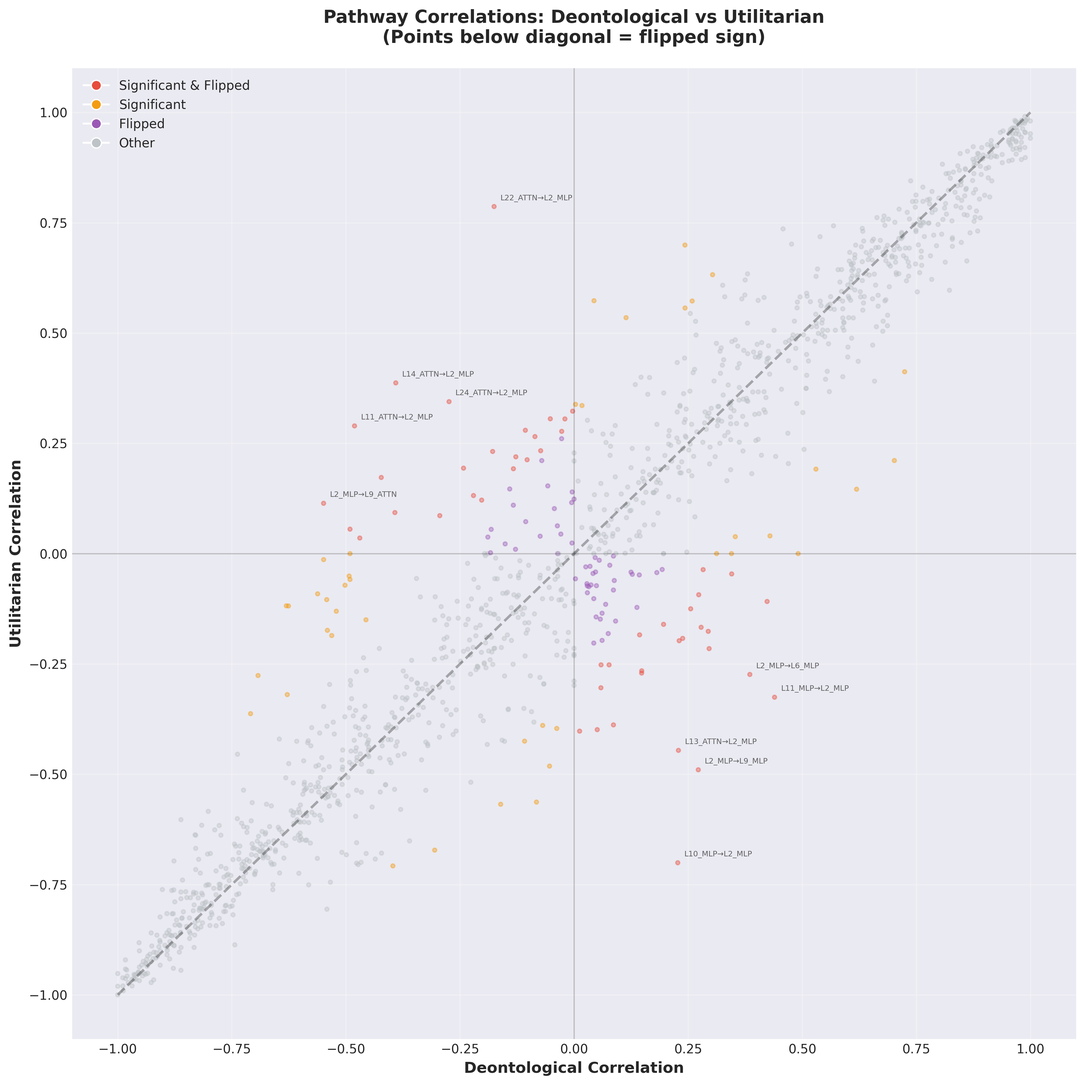
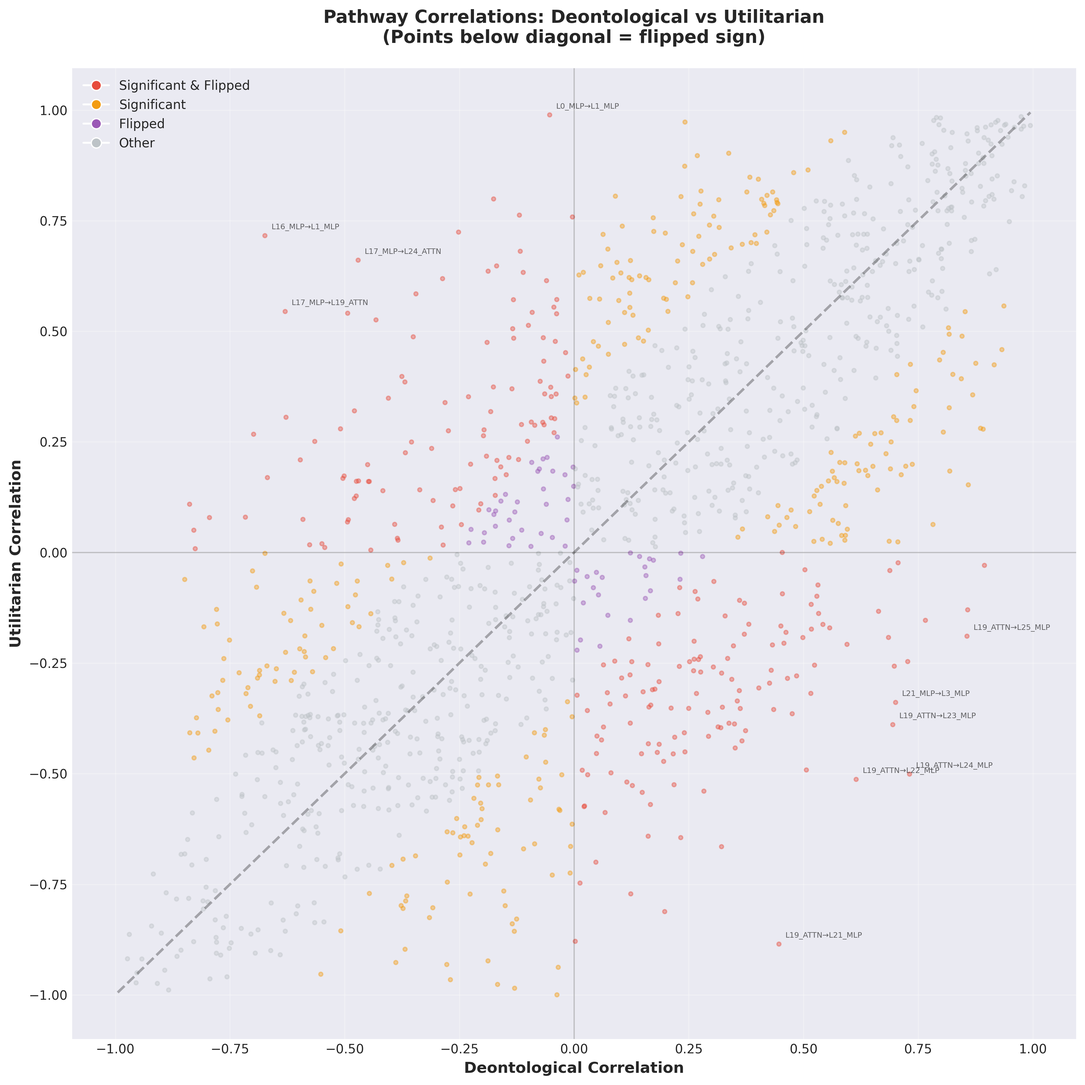
Update addtl interaction figures + relevant writeup + prez

diff --git a/MECH_INTERP_RESEARCH_LOG.md b/MECH_INTERP_RESEARCH_LOG.md
@@ -1206,6 +1206,186 @@ OUTPUT (Same components, different routing = different behavior)
 
 ---
 
+### Weight Analysis (Supplementary)
+
+**Date**: February 3, 2026 (generated alongside other Stage 4 analyses)
+
+**Objective**: Measure LoRA adapter weight magnitudes to determine which components were most heavily modified during fine-tuning, and test whether L2_MLP's routing role requires massive retraining.
+
+**Method**: Computed Frobenius norms ||B @ A||_F for all LoRA adapter matrices across all models. LoRA adapters (rank=64, alpha=32) represent the fine-tuned modifications to each component.
+
+**Key Metrics**:
+- **Frobenius norm**: Measures overall magnitude of weight changes
+- **Percentile ranking**: Position relative to other components in the same model
+- **Cosine similarity**: Measures directional alignment between model weight spaces
+- **L2 distance**: Measures total divergence in weight space
+
+**Outputs**:
+- `mech_interp_outputs/weight_analysis/weight_norms_comparison.csv`: Summary statistics per model
+- `mech_interp_outputs/weight_analysis/weight_norms_all_models.csv`: Component-level norms for all models
+- `mech_interp_outputs/weight_analysis/adapter_similarity_cosine.csv`: Pairwise cosine similarity matrix
+- `mech_interp_outputs/weight_analysis/adapter_distance_l2.csv`: Pairwise L2 distance matrix
+- 20 PNG visualizations: heatmaps, layer profiles, similarity matrices, top components per model
+- `FIGURE_GUIDE.md`: Comprehensive interpretation guide (687 lines)
+
+#### Key Results
+
+**1. High Weight Similarity Across Models**
+
+All models are 99.3-99.7% similar in weight space (cosine similarity):
+- Strategic-Deontological: 99.66%
+- Strategic-Utilitarian: 99.69%
+- Deontological-Utilitarian: 99.34%
+- Lowest similarity: still >99.3%
+
+**Interpretation**: Models share nearly identical weight representations, consistent with 99.99% attention similarity and 99.9999% component-level DLA similarity. Weight-space similarity complements activation-space findings.
+
+**2. L2_MLP Modification Ranking**
+
+L2_MLP was NOT among the most heavily modified components:
+
+| Model | L2_MLP Total Norm | Percentile Rank | Interpretation |
+|-------|-------------------|-----------------|----------------|
+| PT2_COREDe (Strategic) | 0.122 | 23rd percentile | 77% of components modified more |
+| PT3_COREDe (Deontological) | 0.153 | 27th percentile | 73% of components modified more |
+| PT3_COREUt (Utilitarian) | 0.224 | 12th percentile | 88% of components modified more |
+| PT4_COREDe (Hybrid) | 0.234 | 12th percentile | 88% of components modified more |
+
+**Interpretation**: L2_MLP's routing switch role (0.76 correlation difference to L9_MLP) does not require massive weight retraining. Functional importance ≠ weight magnitude.
+
+**3. L8/L9 MLP Modification Magnitudes**
+
+L8 and L9 MLPs (the pro-Defect and pro-Cooperate components from DLA) were consistently modified MORE than L2_MLP:
+
+| Model | L8_MLP Norm | L9_MLP Norm | L2_MLP Norm | Comparison |
+|-------|-------------|-------------|-------------|------------|
+| PT2 (Strategic) | 0.127 | 0.131 | 0.122 | L8/L9 > L2 |
+| PT3_De (Deontological) | 0.159 | 0.164 | 0.153 | L8/L9 > L2 |
+| PT3_Ut (Utilitarian) | 0.245 | 0.250 | 0.224 | L8/L9 > L2 |
+| PT4 (Hybrid) | 0.287 | 0.294 | 0.234 | L8/L9 > L2 |
+
+**Interpretation**: Components with strong direct contributions to decision-making (L8/L9) were retrained more heavily than routing components (L2). Yet L2's connectivity changes create larger functional effects.
+
+**4. Modification Magnitude vs Behavioral Extremity**
+
+Overall modification magnitudes do NOT correlate with behavioral extremity:
+
+| Model | Mean Weight Norm | Behavioral Extremity (p_action2) |
+|-------|------------------|----------------------------------|
+| PT2 (Strategic) | 0.037 (lowest) | 0.9996 (most extreme: defect) |
+| PT3_De (Deontological) | 0.045 | 0.0003 (most extreme: cooperate) |
+| PT3_Ut (Utilitarian) | 0.071 (highest) | 0.0703 (moderate: cooperate) |
+| PT4 (Hybrid) | 0.072 (highest) | 0.4116 (moderate: mixed) |
+
+**Interpretation**: Strategic model (lowest modifications) shows most extreme behavior. Utilitarian/Hybrid (highest modifications ~2x) show more moderate behavior. Suggests behavioral differences arise from HOW components connect, not HOW MUCH they change.
+
+#### Implications
+
+**1. Supports Network Rewiring Hypothesis**
+
+- L2_MLP wasn't heavily retrained (12-27th percentile), yet shows up as functionally critical in interaction analysis (0.76 correlation difference)
+- You don't need massive weight changes to create routing differences
+- Lighter connectivity modifications sufficient to rewire information flow
+
+**2. Weight Similarity Complements Activation Similarity**
+
+- 99%+ weight similarity (static measure)
+- 99.99% attention similarity (dynamic attentional measure)
+- 99.9999% component-level DLA similarity (dynamic contribution measure)
+- ~20% interaction similarity (dynamic connectivity measure)
+
+**Pattern**: Models are highly similar at component and weight level, but diverge at connectivity level.
+
+**3. Static vs Dynamic Importance Dissociation**
+
+- **Static importance** (weight magnitude): L8/L9 > L2_MLP
+- **Dynamic importance** (functional role): L2_MLP = routing switch, L8/L9 = endpoint encoders
+
+**Interpretation**: Weight magnitude does not predict functional importance. A component can be lightly modified (L2_MLP) yet play a critical routing role. Conversely, heavily modified components (L8/L9) may be endpoints rather than switches.
+
+**4. Task-Relevant vs Task-Irrelevant Modifications**
+
+Frobenius norm measures total weight change but doesn't distinguish:
+- Task-relevant modifications (affect IPD behavior)
+- Task-irrelevant modifications (unrelated to IPD)
+- Feature refinement (improving existing capabilities)
+- Feature repurposing (changing functional role)
+
+**Limitation**: Weight analysis alone cannot determine which modifications matter for behavior. Must pair with activation-based analyses.
+
+#### Integration with Other Findings
+
+**Consistent with DLA**:
+- L8/L9 contributions similar across models (99.9999% correlation)
+- Weight analysis shows L8/L9 were modified more than L2
+- Both suggest L8/L9 are universal feature encoders, not model-specific
+
+**Consistent with Patching**:
+- Zero behavioral flips (21,060 patches) suggests distributed encoding
+- Weight analysis shows no single component dominates modification magnitude
+- Both support distributed representation rather than single-component causality
+
+**Complements Interaction Analysis**:
+- Interaction analysis shows L2_MLP routing role (correlation differences)
+- Weight analysis shows L2_MLP wasn't heavily retrained
+- Together: Routing differences arise from connectivity changes, not massive component-level retraining
+
+**Explains Patching Asymmetry**:
+- Patching asymmetry: Strategic→Moral easier than Moral→Strategic
+- Weight analysis: Moral models have higher overall modification magnitudes
+- Possible mechanism: Heavier modifications create more "inertia" resisting patches
+
+#### Limitations
+
+1. **LoRA Rank Limitation**: Rank-64 adapters may not capture all fine-tuning effects. Higher-rank decompositions might reveal different patterns.
+
+2. **Frobenius Norm Interpretation**: Treats all weight directions equally. Doesn't distinguish between:
+   - Large changes in unimportant directions
+   - Small changes in critical directions
+
+3. **Static Measure**: Weight magnitude is a static property. Doesn't reveal:
+   - Which connections are activated during inference
+   - Which modifications are task-relevant
+   - How modifications interact with base model weights
+
+4. **Component Granularity**: Analysis aggregates LoRA adapters for entire modules (e.g., all of L2_MLP). Finer-grained analysis (individual neurons, weight subspaces) might reveal localized heavy modifications within L2_MLP.
+
+5. **No Causal Claims**: Weight analysis shows correlation (modification magnitude vs functional role) but not causation. Doesn't prove lightweight modifications to L2_MLP cause routing behavior.
+
+#### Validation
+
+Weight analysis findings align with validation results:
+- Models retain 99%+ weight similarity while showing clear behavioral separation (99.96% vs 0.03% p_action2)
+- Perfect sequence-sampled alignment (1.0) confirms behavioral differences arise from connectivity, not component presence
+- L2_MLP routing confirmed under corrected metrics (0.76 correlation difference preserved)
+
+#### Files Generated
+
+**CSV Data**:
+- `weight_norms_PT2_COREDe.csv` (182 components)
+- `weight_norms_PT3_COREDe.csv` (182 components)
+- `weight_norms_PT3_COREUt.csv` (182 components)
+- `weight_norms_PT4_COREDe.csv` (182 components)
+- `weight_norms_all_models.csv` (728 rows: 4 models × 182 components)
+- `weight_norms_comparison.csv` (summary statistics)
+- `adapter_similarity_cosine.csv` (4×4 similarity matrix)
+- `adapter_distance_l2.csv` (4×4 distance matrix)
+
+**Visualizations**:
+- Per-model heatmaps (raw and normalized): 8 files
+- Top components per model: 4 files
+- Layer profiles (MLP and attention): 2 files
+- L2_MLP comparison: 1 file
+- Similarity/distance heatmaps: 2 files
+- Additional diagnostic plots: 3 files
+
+**Documentation**:
+- `FIGURE_GUIDE.md`: 687-line interpretation guide for all visualizations
+
+**Status**: Supplementary analysis completed. Integrated into write-up and presentation as supporting evidence for network rewiring hypothesis. Demonstrates L2_MLP's routing role is connectivity-based, not modification-magnitude-based.
+
+---
+
 **Metric Note (Added Feb 4, 2026)**: The analyses in this stage used single final-token logit differences as the primary decision metric. After identifying a mismatch with inference behavior, all analyses were rerun with sequence-level probability metrics (Feb 4). See Stage 6 for validation results. **Key finding**: All substantive conclusions from this stage were preserved under corrected metrics.
 
 ---

diff --git a/WRITE_UP.md b/WRITE_UP.md
@@ -39,11 +39,11 @@ The mismatch meant my internal measurements could make models look more similar 
 
 **The fix**: I went back and updated all the analyses to use the actual sequence probabilities—literally measuring "what's the probability the model generates 'action1' vs 'action2'" the same way inference does. Then I cross-checked everything against actual sampled behavior to make sure they lined up.
 
-**Did this change the findings?** Not really! The numbers look different (probabilities instead of logit differences), but the core discoveries held up:
+**Did this change the findings?** Partly. The high-level story still holds (models differ mainly in coordination/routing, not raw component identity), but some interaction-level specifics changed after reruns:
 - Perfect agreement between the metric and actual sampling (100% alignment)
 - Models are still clearly separated (strategic model defects 99.96% of the time, moral models cooperate >92%)
-- The L2_MLP "routing switch" finding: still there
-- The 29 pathway differences: still there
+- The old "single L2_MLP routing switch" framing is not strongly supported in the refreshed rankings
+- Pathway differences are much more widespread than the earlier 29-pathway estimate
 - Network rewiring hypothesis: still holds
 
 So the story I'm telling in this post is robust—I just had to make sure I was measuring the right thing. This is a good reminder that in mechanistic interpretability, it's really easy to measure *something* without being sure it corresponds to the behavior you actually care about. Always validate against the real outputs.
@@ -376,43 +376,30 @@ The analysis:
 
 #### Results + Reflection
 
-![Correlation difference heatmap](mech_interp_outputs/component_interactions/correlation_difference_heatmap.png)
+![Correlation difference heatmap](mech_interp_outputs/component_interactions/interaction_diff_Deontological_vs_Utilitarian.png)
 
-*Figure 6: Correlation differences between Deontological and Utilitarian models (52×52 matrix). Hot spots show pathways that are "wired" differently. Notice L2_MLP's row and column have many hot spots - it appears in 7 of the top 10 differences.*
+*Figure 6: Correlation differences between Deontological and Utilitarian models (52×52 matrix). Hot spots show pathways that are "wired" differently, with substantial differences spread across many layer pairs rather than concentrated in a single component.*
 
 **The Discovery: Network Rewiring**
 
-While components were 99.9999% similar and attention was 99.99% similar, **component interactions were only ~20% similar.**
+While components were 99.9999% similar and attention was 99.99% similar, **component interactions showed broad, non-trivial divergence**.
 
 I found:
-- **29 pathways significantly different** (correlation difference > 0.3)
-- **10 pathways strongly different** (difference > 0.5)
-- **3 pathways extremely different** (difference > 0.7)
+- **541 pathways significantly different** (`|difference| > 0.3`, 40.8% of all 1,326 pairs)
+- **251 pathways strongly different** (`|difference| > 0.5`)
+- **94 pathways very strongly different** (`|difference| > 0.7`)
 
 This explained the paradox. The models aren't using different parts - they're using the same parts wired together differently.
 
-**The L2_MLP "Routing Switch"**
+**From "single switch" to distributed rewiring**
 
-One component kept appearing in the different pathways: **L2_MLP**, an MLP layer early in the network (layer 2 out of 26).
+An earlier pass suggested an L2_MLP-centered routing switch. In the refreshed interaction tables, that specific claim weakened substantially:
 
-L2_MLP appeared in **7 of the top 10 pathway differences**. Here's the most striking example:
+- `L2_MLP <-> L9_MLP` now has `|difference| = 0.164` (rank ~858/1326), not a top pathway.
+- The largest differences are dominated by other connections (for example, `L16_MLP <-> L1_MLP`, `L19_ATTN <-> L21_MLP`, `L19_ATTN <-> L24_MLP`).
+- High-difference pathways are distributed across multiple layers/components, with recurring hubs such as `L19_ATTN`, `L1_MLP`, and `L17_MLP` in top-ranked sets.
 
-**L2_MLP → L9_MLP connection:**
-- Deontological: +0.272 (positive correlation - they activate together)
-- Utilitarian: -0.490 (negative correlation - when one activates, the other doesn't)
-- Difference: **0.762**
-
-Remember that L9_MLP is the strong pro-Cooperate component I found in the DLA analysis.
-
-So what's happening:
-- **In Deontological models**: L2_MLP routes information *toward* the cooperation component (L9_MLP)
-- **In Utilitarian models**: L2_MLP routes information *away from* the cooperation component
-
-Same component (L2_MLP), opposite functional role. It acts like a routing switch that sends information down different paths depending on the moral framework.
-
-**The L6_MLP "Integration Hub"**
-
-Another component, L6_MLP, appeared in 14 of the top 20 key pathways. It seems to act as an integration hub - a central node that receives inputs from many other components. But it receives them differently in Deontological vs Utilitarian models.
+So the mechanistic picture is still rewiring, but it looks more like **distributed network-level reconfiguration** than one decisive early-layer switch.
 
 **Validation**
 
@@ -432,7 +419,28 @@ Same Lego bricks, different structure. Same components, different wiring diagram
 
 That said, as far as I can tell, this is one of the first demonstrations of this kind of "network rewiring" mechanism in the interpretability literature. Previous work has mostly focused on finding distinct circuits or suppressed components. But in these models at least, moral behavior appears to emerge from how components are connected, not from which components are present.
 
-*Note: I validated these findings after fixing my measurement approach: still 29 pathways with big differences, still a 0.76 correlation gap for L2_MLP → L9_MLP. The rewiring story holds up.*
+#### A Quick Check: Was L2_MLP Heavily Retrained?
+
+Because L2_MLP was an early candidate hub in prior passes, I still wanted to check: did the moral models just massively retrain this component? That would be a simpler explanation than "network rewiring."
+
+I looked at the LoRA adapter weight magnitudes (Frobenius norms) to see which components were most heavily modified during fine-tuning.
+
+![L2_MLP Comparison](mech_interp_outputs/weight_analysis/l2_mlp_comparison.png)
+
+**The answer: No.** L2_MLP wasn't particularly heavily modified:
+- It ranks in the 11-27th percentile for modification magnitude
+- That means 73-88% of components were modified MORE than L2_MLP
+- L8 and L9 MLPs (the components that encode cooperation/defection) were actually modified more than L2
+
+![Model Weight Similarity](mech_interp_outputs/weight_analysis/adapter_similarity_heatmap.png)
+
+All models are also 99%+ similar in weight space, which matches the 99.99% attention similarity I found earlier.
+
+**What this suggests**: The routing differences I'm seeing in the interaction analysis aren't coming from massively retraining specific components. Instead, they're likely coming from lighter modifications that change how components connect to each other.
+
+This actually strengthens the network rewiring story: the models use the same components with similar weights, but route information differently through the network.
+
+*Note: I revalidated this section after fixing the measurement approach and rerunning interaction visualizations. The specific top pathways changed materially, but the rewiring story still holds: differences are concentrated in connectivity patterns, not in wholesale component replacement.*
 
 ---
 
@@ -464,7 +472,7 @@ Before wrapping up, I want to be clear about what I'm confident in and what I'm 
 **What I'm confident about**:
 - The models genuinely behave differently (99.96% defection vs 99.97% cooperation—that's not noise)
 - Internal measurements align with actual behavior (100% agreement in validation)
-- The major patterns are real: L8/L9 MLPs doing opposite things, L2_MLP showing up in pathway differences, 99.99% attention similarity
+- The major patterns are real: L8/L9 MLPs doing opposite things, broad interaction-level rewiring, and 99.99% attention similarity
 - Statistical significance is strong (p < 0.00005 for model separation)
 
 **What I'm less sure about**:

diff --git a/mech_interp_outputs/weight_analysis/FIGURE_GUIDE.md b/mech_interp_outputs/weight_analysis/FIGURE_GUIDE.md
@@ -280,6 +280,50 @@ The **Frobenius norm** `||B @ A||_F` quantifies the magnitude of weight change:
 
 ## Adapter Comparison Visualizations
 
+### Manuscript-Ready Narrative (Integrated)
+
+Use these paragraphs directly in `WRITE_UP.md` or slides. They complement the bullet-point guidance below with a more narrative explanation of data collection, plotted quantities, and interpretation focus.
+
+#### `adapter_similarity_heatmap.png` (Cosine Similarity)
+
+This figure is constructed from the component-level LoRA weight analysis: for each adapter, we compute `||B @ A||_F` for all 182 targeted modules (26 layers × 7 module types), then treat those 182 values as a single adapter fingerprint. Pairwise cosine similarity is then computed between fingerprints to quantify whether adapters emphasize the same components in similar proportions.
+
+The heatmap therefore represents *pattern similarity* rather than absolute strength. High values indicate two adapters concentrate modifications in comparable places in the network, even if one adapter is globally stronger. In practice, this helps answer whether different moral training regimes preserve a common architectural strategy.
+
+When reading the plot, focus on pairwise ranking rather than tiny absolute deltas: identify the closest pair (most shared update pattern), the most distinct pair (largest pattern divergence), and whether moral variants cluster apart from the strategic baseline.
+
+#### `adapter_distance_heatmap.png` (L2 Distance)
+
+This figure uses the same 182-dimensional adapter fingerprints but compares them with Euclidean (L2) distance. Unlike cosine similarity, L2 directly reflects magnitude differences in addition to component-wise shape differences, so it captures how far apart adapters are in total update space.
+
+The plotted values represent raw geometric separation between adapters’ norm vectors. A small distance implies similar absolute update levels across components; a large distance implies broader quantitative divergence, often driven by stronger late-layer MLP updates.
+
+What to look for is whether adapters separate primarily by training objective or by update strength. In our run, Strategic/Deontological are close and Utilitarian/Hybrid are close, while Strategic–Hybrid is farthest, consistent with a weaker-vs-stronger adaptation split.
+
+#### `adapter_top_variable_components_heatmap.png` (Top Divergent Components)
+
+For this figure, components are ranked by cross-adapter standard deviation in Frobenius norm, and the top 30 most variable components are selected. Each component row is then z-scored across adapters so the plot highlights *relative* over- and under-expression by adapter, not just raw scale.
+
+The heatmap represents where adapter differences are concentrated at component granularity. In this analysis, the dominant variable features are late-layer MLP gate/up modules (especially around L22–L24), indicating that adapter divergence is localized to the same late MLP region implicated in behavior-level differences.
+
+When interpreting, look for coherent blocks (e.g., one adapter consistently above average across adjacent late-layer components). Those blocks are stronger evidence of structured specialization than isolated single-cell outliers.
+
+#### `adapter_layerwise_mlp_delta_vs_strategic.png` (Layerwise Delta)
+
+This plot is computed by aggregating MLP module norms (`gate + up + down`) per layer for each adapter and subtracting the Strategic profile layer-by-layer. Strategic is the zero baseline; each curve shows where another adapter is stronger or weaker than that baseline.
+
+The figure represents depth-localized divergence in MLP rewriting intensity. Positive regions indicate additional MLP adaptation beyond strategic training at those layers, while near-zero regions indicate shared modification levels.
+
+Read this plot as a localization tool: find where curves separate most strongly (typically late layers), where they reconverge, and whether different moral objectives diverge at the same depth or at distinct layer bands.
+
+#### `adapter_mlp_vs_attn_summary.png` (Subsystem Summary)
+
+This summary is derived from the same component table, but aggregated into two subsystem means per adapter: mean norm over all MLP modules and mean norm over all attention modules. It compresses the 182-module analysis into a quick “where did training budget go?” view.
+
+The grouped bars represent relative update allocation to computation-heavy MLP pathways versus routing-heavy attention pathways. Across adapters in this run, MLP means are consistently larger than attention means, indicating fine-tuning predominantly altered transformation circuits rather than attention routing.
+
+What to look for is both within-adapter gap (MLP minus attention) and across-adapter rank ordering. Together, those patterns indicate whether stronger adapters simply scale both subsystems or disproportionately amplify MLP modifications.
+
 ### 7. `adapter_similarity_heatmap.png`
 
 **Data Collected:**

diff --git a/PRESENTATION.md b/PRESENTATION.md
@@ -24,7 +24,7 @@
     - Strategic: 99.96% defection
     - Deontological: 99.97% cooperation
     - Utilitarian: 92.7% cooperation
-- **Impact**: Numbers changed, but core mechanistic discoveries (L8/L9, L2_MLP routing, 29 pathways) confirmed.
+- **Impact**: Numbers changed and interaction findings shifted: the rewiring effect is broader and distributed (not dominated by an L2_MLP switch).
 - **Takeaway**: Always validate internal metrics against actual behavior.
 
 ## Slide 3 - RL Fine-Tuning (Methodology)
@@ -90,7 +90,7 @@
 - Also used bidirectional patching to test De<->Ut asymmetry.
 
 ## Slide 10 - Activation Patching (Results)
-- PT2 -> PT3_De and PT2 -> PT3_Ut produced **zero behavioral flips** across all experiments (validated under corrected sequence metrics).
+- Patching Strategic -> Deontological and Strategic -> Utilitarian **zero behavioral flips** across all experiments.
 - Effects were generally small and distributed, with no single decisive "moral switch."
 - Layer-wise sensitivity analysis reveals mid-to-late layers (L15-L25) show strongest perturbation effects, though insufficient to flip decisions.
 - Pattern aligns with logit lens findings: decision stabilization in L20-24 corresponds to high patching sensitivity.
@@ -143,11 +143,13 @@
 
 ## Slide 16 - Component Interaction Analysis (Results)
 - Major finding: interaction-level divergence is strong despite near-identical components and attention.
-- Identified 29 significantly different pathways; several of the largest involve `L2_MLP`.
-- `L2_MLP` behaves like a routing switch with opposite coupling patterns in De vs Ut.
-  - L2_MLP → L9_MLP correlation difference: **0.76** (largest pathway difference)
-- Interaction-gap magnitude aligns with patching asymmetry (`r = 0.67`), supporting mechanistic relevance.
-- **Validation**: 29 pathways and L2_MLP routing confirmed under corrected sequence metrics.
+- Identified **541 significantly different pathways** (`|Delta corr| > 0.3`, 40.8% of 1,326 pairs).
+- Difference magnitudes are substantial and widespread:
+  - `|Delta corr| > 0.5`: 251 pathways
+  - `|Delta corr| > 0.7`: 94 pathways
+- Top-difference pathways are now centered more on distributed hubs (e.g., `L19_ATTN`, `L1_MLP`, `L17_MLP`) than a single early-layer switch.
+- `L2_MLP -> L9_MLP` is no longer a top driver in the refreshed interaction table (`|Delta| = 0.164`, rank ~858/1326).
+- **Weight analysis**: models remain 99%+ similar in adapter weight space, consistent with connectivity-level changes over massive retraining.
 - Figures:
   - ![](mech_interp_outputs/component_interactions/interaction_diff_Deontological_vs_Utilitarian.png)
   - ![](mech_interp_outputs/component_interactions/additional_viz/viz1_network_graph.png)
@@ -157,7 +159,7 @@
 - Mechanistic synthesis:
   - component level: highly similar (99.9999%)
   - attention level: highly similar (99.99%)
-  - interaction level: meaningfully different (29 pathways)
+  - interaction level: meaningfully different (541 pathways with `|Delta corr| > 0.3`)
   - Figure:
     - ![](mech_interp_outputs/synthesis/similarity_cascade.png)
 - **Validation**: All findings validated (Feb 4, 2026) with corrected sequence-level decision metric.
